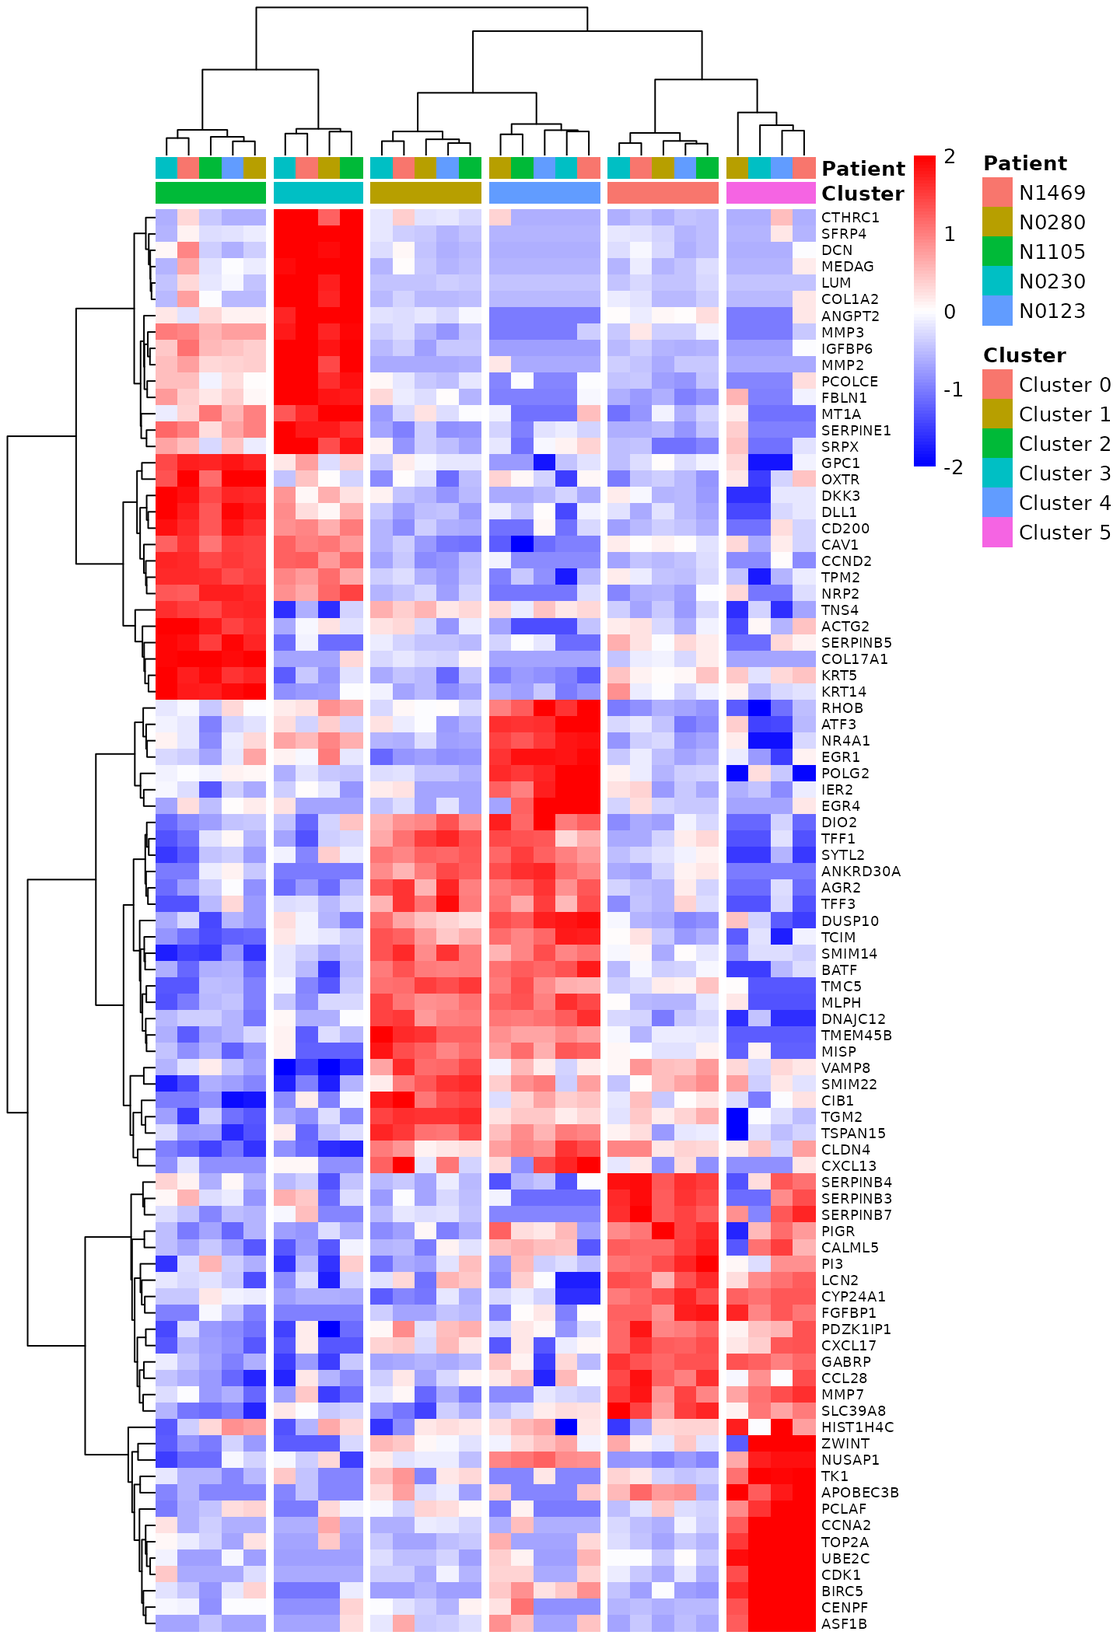
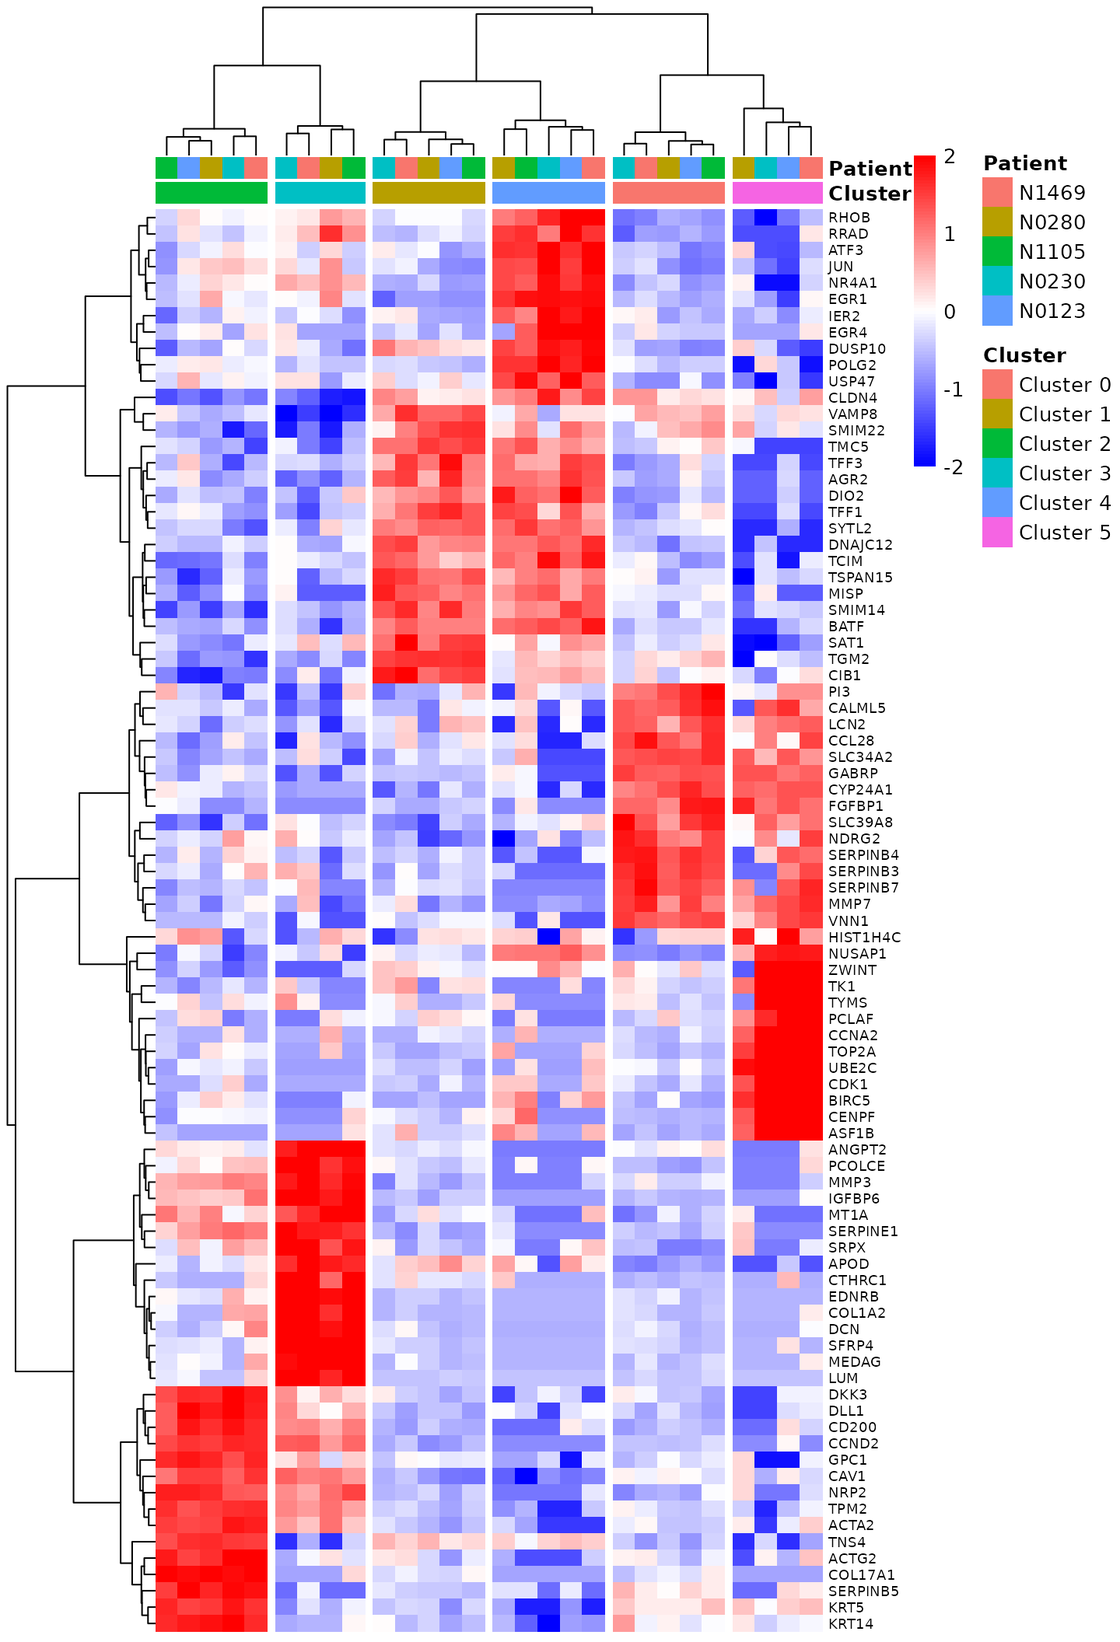
Deploying to gh-pages from  @ 7bf09e3f66b401149d9996cd1255afd9fc6a37ab 🚀

diff --git a/articles/SingleCellWorkshop.html b/articles/SingleCellWorkshop.html
@@ -31,7 +31,7 @@
       </button>
       <span class="navbar-brand">
         <a class="navbar-link" href="../index.html">SingleCellWorkshop</a>
-        <span class="version label label-default" data-toggle="tooltip" data-placement="bottom" title="Released version">0.1.15</span>
+        <span class="version label label-default" data-toggle="tooltip" data-placement="bottom" title="Released version">0.1.16</span>
       </span>
     </div>
 
@@ -268,9 +268,9 @@ UMAP visualization where cells are coloured by cell cluster.
 </p>
 </div>
 </div>
-<div id="mark-genes-identification" class="section level2">
+<div id="marker-genes-identification" class="section level2">
 <h2 class="hasAnchor">
-<a href="#mark-genes-identification" class="anchor"></a>Mark genes identification</h2>
+<a href="#marker-genes-identification" class="anchor"></a>Marker genes identification</h2>
 <p>The next step after cell clustering is to identify marker genes that drive separation between the cell clusters. Marker genes are usually obtained by performing differential expression analyses between different clusters. In Seurat, the differential expression analysis is performed by the <code><a href="https://satijalab.org/seurat/reference/FindMarkers.html">FindMarkers()</a></code> function. By default, it identifies positive and negative markers of a single cluster (specified in <code>ident.1</code>), compared to all other cells.</p>
 <p>To increase the computational speed, the Seurat <code><a href="https://satijalab.org/seurat/reference/FindMarkers.html">FindMarkers()</a></code> function only performs DE tests on a subset of genes that satisfy certain thresholds. The <code>min.pct</code> argument requires a gene to be detected at a minimum percentage in either of the two groups of cells, and by default it is set to 10%. The <code>logfc.threshold</code> limits testing to genes of which the log-fold change between the two groups is above a certain level (0.25 by default). By default the <code><a href="https://satijalab.org/seurat/reference/FindMarkers.html">FindMarkers()</a></code> function performs Wilcoxon Rank Sum tests, but other statistical tests (eg. likelihood-ratio test, <em>t</em>-test) are also available.</p>
 <p>Here we find all markers of cluster 1 as follows.</p>
@@ -389,8 +389,8 @@ Violin plots of signature scores.
 <span class="va">col.p</span> <span class="op">&lt;-</span> <span class="fu">scales</span><span class="fu">::</span><span class="fu"><a href="https://scales.r-lib.org/reference/hue_pal.html">hue_pal</a></span><span class="op">(</span><span class="op">)</span><span class="op">(</span><span class="fu"><a href="https://rdrr.io/r/base/nlevels.html">nlevels</a></span><span class="op">(</span><span class="fu"><a href="https://satijalab.org/seurat/reference/Idents.html">Idents</a></span><span class="op">(</span><span class="va">N1469</span><span class="op">)</span><span class="op">)</span><span class="op">)</span>
 <span class="fu"><a href="https://rdrr.io/pkg/vcd/man/ternaryplot.html">ternaryplot</a></span><span class="op">(</span><span class="va">TN</span>, cex<span class="op">=</span><span class="fl">0.2</span>, pch<span class="op">=</span><span class="fl">16</span>, col<span class="op">=</span><span class="va">col.p</span><span class="op">[</span><span class="fu"><a href="https://satijalab.org/seurat/reference/Idents.html">Idents</a></span><span class="op">(</span><span class="va">N1469</span><span class="op">)</span><span class="op">]</span>, grid<span class="op">=</span><span class="cn">TRUE</span><span class="op">)</span></code></pre></div>
 <div class="figure" style="text-align: center">
-<img src="SingleCellWorkshop_files/figure-html/TernaryPlot-1.png" alt="Violin plots of signature scores." width="528"><p class="caption">
-Violin plots of signature scores.
+<img src="SingleCellWorkshop_files/figure-html/TernaryPlot-1.png" alt="Ternary plot positioning each cell according to the proportion of basal, LP, or ML signature genes expressed by that cell." width="528"><p class="caption">
+Ternary plot positioning each cell according to the proportion of basal, LP, or ML signature genes expressed by that cell.
 </p>
 </div>
 </div>
@@ -473,17 +473,17 @@ UMAP visualization of the integrated data where cells are coloured by patient.
 <pre><code>## Modularity Optimizer version 1.3.0 by Ludo Waltman and Nees Jan van Eck
 ## 
 ## Number of nodes: 13644
-## Number of edges: 573287
+## Number of edges: 572889
 ## 
 ## Running Louvain algorithm...
-## Maximum modularity in 10 random starts: 0.9645
+## Maximum modularity in 10 random starts: 0.9642
 ## Number of communities: 6
-## Elapsed time: 1 seconds</code></pre>
+## Elapsed time: 2 seconds</code></pre>
 <div class="sourceCode" id="cb46"><pre class="downlit sourceCode r">
 <code class="sourceCode R"><span class="fu"><a href="https://rdrr.io/r/base/table.html">table</a></span><span class="op">(</span><span class="fu"><a href="https://satijalab.org/seurat/reference/Idents.html">Idents</a></span><span class="op">(</span><span class="va">NormEpi</span><span class="op">)</span><span class="op">)</span></code></pre></div>
 <pre><code>## 
 ##    0    1    2    3    4    5 
-## 5526 5438 1979  419  214   68</code></pre>
+## 5520 5446 2040  418  153   67</code></pre>
 <p>The clustering results are shown in the UMAP plot below.</p>
 <div class="sourceCode" id="cb48"><pre class="downlit sourceCode r">
 <code class="sourceCode R"><span class="fu"><a href="https://satijalab.org/seurat/reference/DimPlot.html">DimPlot</a></span><span class="op">(</span><span class="va">NormEpi</span>, reduction <span class="op">=</span> <span class="st">"umap"</span>, label<span class="op">=</span><span class="cn">TRUE</span><span class="op">)</span></code></pre></div>
@@ -520,8 +520,8 @@ Signature scores for the integrated data.
 <div class="sourceCode" id="cb53"><pre class="downlit sourceCode r">
 <code class="sourceCode R"><span class="fu"><a href="https://satijalab.org/seurat/reference/VlnPlot.html">VlnPlot</a></span><span class="op">(</span><span class="va">NormEpi</span>, features <span class="op">=</span> <span class="fu"><a href="https://rdrr.io/r/base/colnames.html">colnames</a></span><span class="op">(</span><span class="va">SigScores2</span><span class="op">)</span>, ncol<span class="op">=</span><span class="fl">2</span>, pt.size<span class="op">=</span><span class="fl">0.1</span><span class="op">)</span></code></pre></div>
 <div class="figure" style="text-align: center">
-<img src="SingleCellWorkshop_files/figure-html/SigScoreViolinPlot2-1.png" alt="Violin plots of signature scores." width="1056"><p class="caption">
-Violin plots of signature scores.
+<img src="SingleCellWorkshop_files/figure-html/SigScoreViolinPlot2-1.png" alt="Violin plots of signature scores for the integrated data." width="1056"><p class="caption">
+Violin plots of signature scores for the integrated data.
 </p>
 </div>
 <p>It can be seen that cells in cluster 2 have high expression levels of basal signature genes, suggesting these cells are likely to be basal cells. Likewise, cluster 0 and 5 are LP or LP-like, cluster 1 and 4 are ML or ML-like, and cluster 3 is stroma.</p>
@@ -535,8 +535,8 @@ Violin plots of signature scores.
 <span class="va">col.p</span> <span class="op">&lt;-</span> <span class="fu">scales</span><span class="fu">::</span><span class="fu"><a href="https://scales.r-lib.org/reference/hue_pal.html">hue_pal</a></span><span class="op">(</span><span class="op">)</span><span class="op">(</span><span class="fu"><a href="https://rdrr.io/r/base/nlevels.html">nlevels</a></span><span class="op">(</span><span class="fu"><a href="https://satijalab.org/seurat/reference/Idents.html">Idents</a></span><span class="op">(</span><span class="va">NormEpi</span><span class="op">)</span><span class="op">)</span><span class="op">)</span>
 <span class="fu"><a href="https://rdrr.io/pkg/vcd/man/ternaryplot.html">ternaryplot</a></span><span class="op">(</span><span class="va">TN2</span>, cex<span class="op">=</span><span class="fl">0.2</span>, pch<span class="op">=</span><span class="fl">16</span>, col<span class="op">=</span><span class="va">col.p</span><span class="op">[</span><span class="fu"><a href="https://satijalab.org/seurat/reference/Idents.html">Idents</a></span><span class="op">(</span><span class="va">NormEpi</span><span class="op">)</span><span class="op">]</span>, grid<span class="op">=</span><span class="cn">TRUE</span><span class="op">)</span></code></pre></div>
 <div class="figure" style="text-align: center">
-<img src="SingleCellWorkshop_files/figure-html/TernaryPlot2-1.png" alt="Violin plots of signature scores for the integrated data." width="576"><p class="caption">
-Violin plots of signature scores for the integrated data.
+<img src="SingleCellWorkshop_files/figure-html/TernaryPlot2-1.png" alt="Ternary plot positioning each cell according to the proportion of basal, LP, or ML signature genes expressed by that cell." width="576"><p class="caption">
+Ternary plot positioning each cell according to the proportion of basal, LP, or ML signature genes expressed by that cell.
 </p>
 </div>
 </div>
@@ -561,15 +561,15 @@ Violin plots of signature scores for the integrated data.
 <span class="fu"><a href="https://rdrr.io/r/base/table.html">table</a></span><span class="op">(</span><span class="va">sampClust</span><span class="op">)</span></code></pre></div>
 <pre><code>## sampClust
 ## N0123_Clst0 N0123_Clst1 N0123_Clst2 N0123_Clst3 N0123_Clst4 N0123_Clst5 N0230_Clst0 
-##         839        1563         358          12          49          19        1029 
+##         839        1563         366          12          41          19        1033 
 ## N0230_Clst1 N0230_Clst2 N0230_Clst3 N0230_Clst4 N0230_Clst5 N0280_Clst0 N0280_Clst1 
-##         562         139          78          33          16         346         392 
+##         561         156          77          15          15         346         392 
 ## N0280_Clst2 N0280_Clst3 N0280_Clst4 N0280_Clst5 N1105_Clst0 N1105_Clst1 N1105_Clst2 
-##         302          39          44           3        1601        2465         771 
+##         316          39          30           3        1597        2469         784 
 ## N1105_Clst3 N1105_Clst4 N1105_Clst5 N1469_Clst0 N1469_Clst1 N1469_Clst2 N1469_Clst3 
-##          80          35           1        1711         456         409         210 
+##          80          22           1        1705         461         418         210 
 ## N1469_Clst4 N1469_Clst5 
-##          53          29</code></pre>
+##          45          29</code></pre>
 <p>We then form pseudo-bulk samples by aggregating the read counts for each gene by cluster-sample combination.</p>
 <div class="sourceCode" id="cb57"><pre class="downlit sourceCode r">
 <code class="sourceCode R"><span class="va">rawCounts</span> <span class="op">&lt;-</span> <span class="fu"><a href="https://rdrr.io/r/base/matrix.html">as.matrix</a></span><span class="op">(</span><span class="va">NormEpi</span><span class="op">@</span><span class="va">assays</span><span class="op">$</span><span class="va">RNA</span><span class="op">@</span><span class="va">counts</span><span class="op">)</span>
@@ -599,7 +599,7 @@ Violin plots of signature scores for the integrated data.
 <span class="fu"><a href="https://rdrr.io/r/base/table.html">table</a></span><span class="op">(</span><span class="va">keep.gene</span><span class="op">)</span></code></pre></div>
 <pre><code>## keep.gene
 ## FALSE  TRUE 
-##  8955 10274</code></pre>
+##  8775 10454</code></pre>
 <div class="sourceCode" id="cb64"><pre class="downlit sourceCode r">
 <code class="sourceCode R"><span class="va">y</span> <span class="op">&lt;-</span> <span class="va">y</span><span class="op">[</span><span class="va">keep.gene</span>,,keep<span class="op">=</span><span class="cn">FALSE</span><span class="op">]</span></code></pre></div>
 </div>
@@ -611,34 +611,34 @@ Violin plots of signature scores for the integrated data.
 <code class="sourceCode R"><span class="va">y</span> <span class="op">&lt;-</span> <span class="fu"><a href="https://rdrr.io/pkg/edgeR/man/calcNormFactors.html">calcNormFactors</a></span><span class="op">(</span><span class="va">y</span><span class="op">)</span>
 <span class="va">y</span><span class="op">$</span><span class="va">samples</span></code></pre></div>
 <pre><code>##             group lib.size norm.factors Patient
-## N0123_Clst0     0  4250653        0.908   N0123
-## N0123_Clst1     1  5908620        1.052   N0123
-## N0123_Clst2     2   914352        0.906   N0123
-## N0123_Clst4     4   162664        1.184   N0123
-## N0123_Clst5     5   155062        1.210   N0123
-## N0230_Clst0     0  4251771        0.982   N0230
-## N0230_Clst1     1  1930372        1.108   N0230
-## N0230_Clst2     2   418705        1.061   N0230
-## N0230_Clst3     3   216976        1.149   N0230
-## N0230_Clst4     4   107137        1.277   N0230
-## N0230_Clst5     5    81688        1.624   N0230
-## N0280_Clst0     0  3772988        0.740   N0280
-## N0280_Clst1     1  2029941        1.082   N0280
-## N0280_Clst2     2  1342851        0.913   N0280
-## N0280_Clst3     3   188352        0.996   N0280
-## N0280_Clst4     4   219343        1.197   N0280
-## N0280_Clst5     5    55428        1.218   N0280
-## N1105_Clst0     0 18414657        0.750   N1105
-## N1105_Clst1     1 15687217        0.968   N1105
-## N1105_Clst2     2  3680521        0.779   N1105
-## N1105_Clst3     3   430315        0.899   N1105
-## N1105_Clst4     4   220814        1.176   N1105
-## N1469_Clst0     0 10510089        0.727   N1469
-## N1469_Clst1     1  2259472        0.886   N1469
-## N1469_Clst2     2  1715710        0.842   N1469
-## N1469_Clst3     3  1169207        0.790   N1469
-## N1469_Clst4     4   261270        0.994   N1469
-## N1469_Clst5     5   260898        1.085   N1469</code></pre>
+## N0123_Clst0     0  4252753        0.914   N0123
+## N0123_Clst1     1  5913960        1.033   N0123
+## N0123_Clst2     2   933292        0.870   N0123
+## N0123_Clst4     4   144308        1.135   N0123
+## N0123_Clst5     5   155185        1.155   N0123
+## N0230_Clst0     0  4261533        1.110   N0230
+## N0230_Clst1     1  1935170        1.140   N0230
+## N0230_Clst2     2   452640        1.031   N0230
+## N0230_Clst3     3   214246        1.115   N0230
+## N0230_Clst4     4    67372        1.410   N0230
+## N0230_Clst5     5    80893        1.437   N0230
+## N0280_Clst0     0  3774944        0.729   N0280
+## N0280_Clst1     1  2031958        1.014   N0280
+## N0280_Clst2     2  1382642        0.875   N0280
+## N0280_Clst3     3   188620        1.039   N0280
+## N0280_Clst4     4   180587        1.185   N0280
+## N0280_Clst5     5    55465        1.251   N0280
+## N1105_Clst0     0 18342441        0.767   N1105
+## N1105_Clst1     1 15781150        0.968   N1105
+## N1105_Clst2     2  3730398        0.778   N1105
+## N1105_Clst3     3   430622        0.908   N1105
+## N1105_Clst4     4   172690        1.219   N1105
+## N1469_Clst0     0 10459180        0.859   N1469
+## N1469_Clst1     1  2315185        0.923   N1469
+## N1469_Clst2     2  1745234        0.831   N1469
+## N1469_Clst3     3  1170267        0.776   N1469
+## N1469_Clst4     4   234042        0.933   N1469
+## N1469_Clst5     5   261094        1.034   N1469</code></pre>
 </div>
 <div id="data-exploration" class="section level2">
 <h2 class="hasAnchor">
@@ -718,34 +718,34 @@ edgeR BCV and quasi-likelihood dispersion plots.
 <span class="fu"><a href="https://rdrr.io/r/base/colnames.html">colnames</a></span><span class="op">(</span><span class="va">dtest</span><span class="op">)</span> <span class="op">&lt;-</span> <span class="fu"><a href="https://rdrr.io/r/base/colnames.html">colnames</a></span><span class="op">(</span><span class="va">contr</span><span class="op">)</span>
 <span class="va">dtest</span></code></pre></div>
 <pre><code>##        Cluster0 Cluster1 Cluster2 Cluster3 Cluster4 Cluster5
-## Down        454      970     1703     1106     1600      637
-## NotSig     8025     6847     6321     7558     7178     9113
-## Up         1795     2457     2250     1610     1496      524</code></pre>
+## Down        574      919     1506     1109     1481      497
+## NotSig     8599     7161     6685     7692     7401     9380
+## Up         1281     2374     2263     1653     1572      577</code></pre>
 <p>We can view the top DE results using the <code>topTags</code> function. For example, to see the top 20 DE genes of cluster 2 vs all the other clusters, we use the following line.</p>
 <div class="sourceCode" id="cb77"><pre class="downlit sourceCode r">
 <code class="sourceCode R"><span class="fu"><a href="https://rdrr.io/pkg/edgeR/man/topTags.html">topTags</a></span><span class="op">(</span><span class="va">test</span><span class="op">$</span><span class="va">Cluster2</span>, n<span class="op">=</span><span class="fl">20L</span><span class="op">)</span></code></pre></div>
 <pre><code>## Coefficient:  -0.2*Cluster0 -0.2*Cluster1 1*Cluster2 -0.2*Cluster3 -0.2*Cluster4 -0.2*Cluster5 
 ##          logFC unshrunk.logFC logCPM   PValue      FDR
-## ACTG2     7.81           7.82   9.22 1.33e-25 1.36e-21
-## SERPINB5  6.28           6.30   6.55 1.13e-24 5.83e-21
-## KRT5      6.28           6.28   8.99 2.08e-24 7.13e-21
-## DLL1      5.40           5.42   5.94 7.71e-24 1.98e-20
-## DKK3      5.72           5.73   6.70 1.24e-23 2.56e-20
-## CD200     6.18           6.21   6.50 2.29e-23 3.91e-20
-## TPM2      5.71           5.72   8.27 2.67e-23 3.91e-20
-## CCND2     6.25           6.31   5.67 2.04e-22 2.62e-19
-## TNS4      5.05           5.07   6.24 9.05e-22 1.03e-18
-## GPC1      4.73           4.73   6.29 1.53e-21 1.57e-18
-## KRT14     7.14           7.14  10.86 1.87e-21 1.74e-18
-## NRP2      5.98           6.02   6.06 4.28e-21 3.60e-18
-## COL17A1   8.91          16.14   5.32 4.55e-21 3.60e-18
-## OXTR      5.45           5.46   6.23 6.57e-21 4.82e-18
-## CAV1      4.83           4.83   8.31 7.15e-21 4.90e-18
-## FAM126A   4.48           4.50   5.84 1.01e-20 6.49e-18
-## MSRB3     5.31           5.34   5.37 1.24e-20 7.52e-18
-## ACTA2     6.00           6.00   8.46 1.90e-20 1.09e-17
-## TUBB2B    4.45           4.45   7.58 2.78e-20 1.50e-17
-## DST       3.83           3.83   8.71 3.95e-20 2.03e-17</code></pre>
+## ACTG2     7.72           7.73   9.21 2.82e-26 2.95e-22
+## SERPINB5  6.28           6.30   6.56 3.58e-25 1.87e-21
+## KRT5      6.51           6.52   8.98 2.57e-24 7.20e-21
+## TPM2      5.77           5.78   8.27 2.76e-24 7.20e-21
+## DLL1      5.38           5.39   5.96 9.51e-24 1.99e-20
+## DKK3      5.77           5.78   6.70 1.24e-23 2.17e-20
+## CD200     6.11           6.13   6.52 1.57e-23 2.34e-20
+## KRT14     7.39           7.39  10.84 1.16e-22 1.51e-19
+## TNS4      4.96           4.97   6.25 1.76e-21 2.04e-18
+## ACTA2     6.22           6.23   8.45 2.66e-21 2.78e-18
+## GPC1      4.65           4.66   6.31 3.87e-21 3.68e-18
+## NRP2      5.92           5.96   6.08 4.25e-21 3.70e-18
+## COL17A1   8.93          16.15   5.34 4.69e-21 3.77e-18
+## CCND2     7.07          10.60   5.68 5.44e-21 4.06e-18
+## CAV1      4.76           4.76   8.32 6.77e-21 4.72e-18
+## MSRB3     5.27           5.29   5.38 7.63e-21 4.99e-18
+## TUBB2B    4.44           4.44   7.58 1.00e-20 6.17e-18
+## OXTR      5.35           5.37   6.25 1.14e-20 6.61e-18
+## DST       3.84           3.84   8.71 2.04e-20 1.12e-17
+## FAM126A   4.41           4.42   5.87 2.87e-20 1.50e-17</code></pre>
 <p>We can extract the top 15 marker genes (up-regulated only) of each cluster as follows.</p>
 <div class="sourceCode" id="cb79"><pre class="downlit sourceCode r">
 <code class="sourceCode R"><span class="va">top</span> <span class="op">&lt;-</span> <span class="fl">15</span>

diff --git a/404.html b/404.html
@@ -71,7 +71,7 @@
       </button>
       <span class="navbar-brand">
         <a class="navbar-link" href="https://yunshun.github.io/SingleCellWorkshop/index.html">SingleCellWorkshop</a>
-        <span class="version label label-default" data-toggle="tooltip" data-placement="bottom" title="Released version">0.1.15</span>
+        <span class="version label label-default" data-toggle="tooltip" data-placement="bottom" title="Released version">0.1.16</span>
       </span>
     </div>
 

diff --git a/articles/index.html b/articles/index.html
@@ -71,7 +71,7 @@
       </button>
       <span class="navbar-brand">
         <a class="navbar-link" href="../index.html">SingleCellWorkshop</a>
-        <span class="version label label-default" data-toggle="tooltip" data-placement="bottom" title="Released version">0.1.15</span>
+        <span class="version label label-default" data-toggle="tooltip" data-placement="bottom" title="Released version">0.1.16</span>
       </span>
     </div>
 

diff --git a/reference/index.html b/reference/index.html
@@ -71,7 +71,7 @@
       </button>
       <span class="navbar-brand">
         <a class="navbar-link" href="../index.html">SingleCellWorkshop</a>
-        <span class="version label label-default" data-toggle="tooltip" data-placement="bottom" title="Released version">0.1.15</span>
+        <span class="version label label-default" data-toggle="tooltip" data-placement="bottom" title="Released version">0.1.16</span>
       </span>
     </div>
 

diff --git a/LICENSE-text.html b/LICENSE-text.html
@@ -71,7 +71,7 @@
       </button>
       <span class="navbar-brand">
         <a class="navbar-link" href="index.html">SingleCellWorkshop</a>
-        <span class="version label label-default" data-toggle="tooltip" data-placement="bottom" title="Released version">0.1.15</span>
+        <span class="version label label-default" data-toggle="tooltip" data-placement="bottom" title="Released version">0.1.16</span>
       </span>
     </div>
 

diff --git a/LICENSE.html b/LICENSE.html
@@ -71,7 +71,7 @@
       </button>
       <span class="navbar-brand">
         <a class="navbar-link" href="index.html">SingleCellWorkshop</a>
-        <span class="version label label-default" data-toggle="tooltip" data-placement="bottom" title="Released version">0.1.15</span>
+        <span class="version label label-default" data-toggle="tooltip" data-placement="bottom" title="Released version">0.1.16</span>
       </span>
     </div>
 

diff --git a/authors.html b/authors.html
@@ -71,7 +71,7 @@
       </button>
       <span class="navbar-brand">
         <a class="navbar-link" href="index.html">SingleCellWorkshop</a>
-        <span class="version label label-default" data-toggle="tooltip" data-placement="bottom" title="Released version">0.1.15</span>
+        <span class="version label label-default" data-toggle="tooltip" data-placement="bottom" title="Released version">0.1.16</span>
       </span>
     </div>
 

diff --git a/index.html b/index.html
@@ -32,7 +32,7 @@
       </button>
       <span class="navbar-brand">
         <a class="navbar-link" href="index.html">SingleCellWorkshop</a>
-        <span class="version label label-default" data-toggle="tooltip" data-placement="bottom" title="Released version">0.1.15</span>
+        <span class="version label label-default" data-toggle="tooltip" data-placement="bottom" title="Released version">0.1.16</span>
       </span>
     </div>
 
